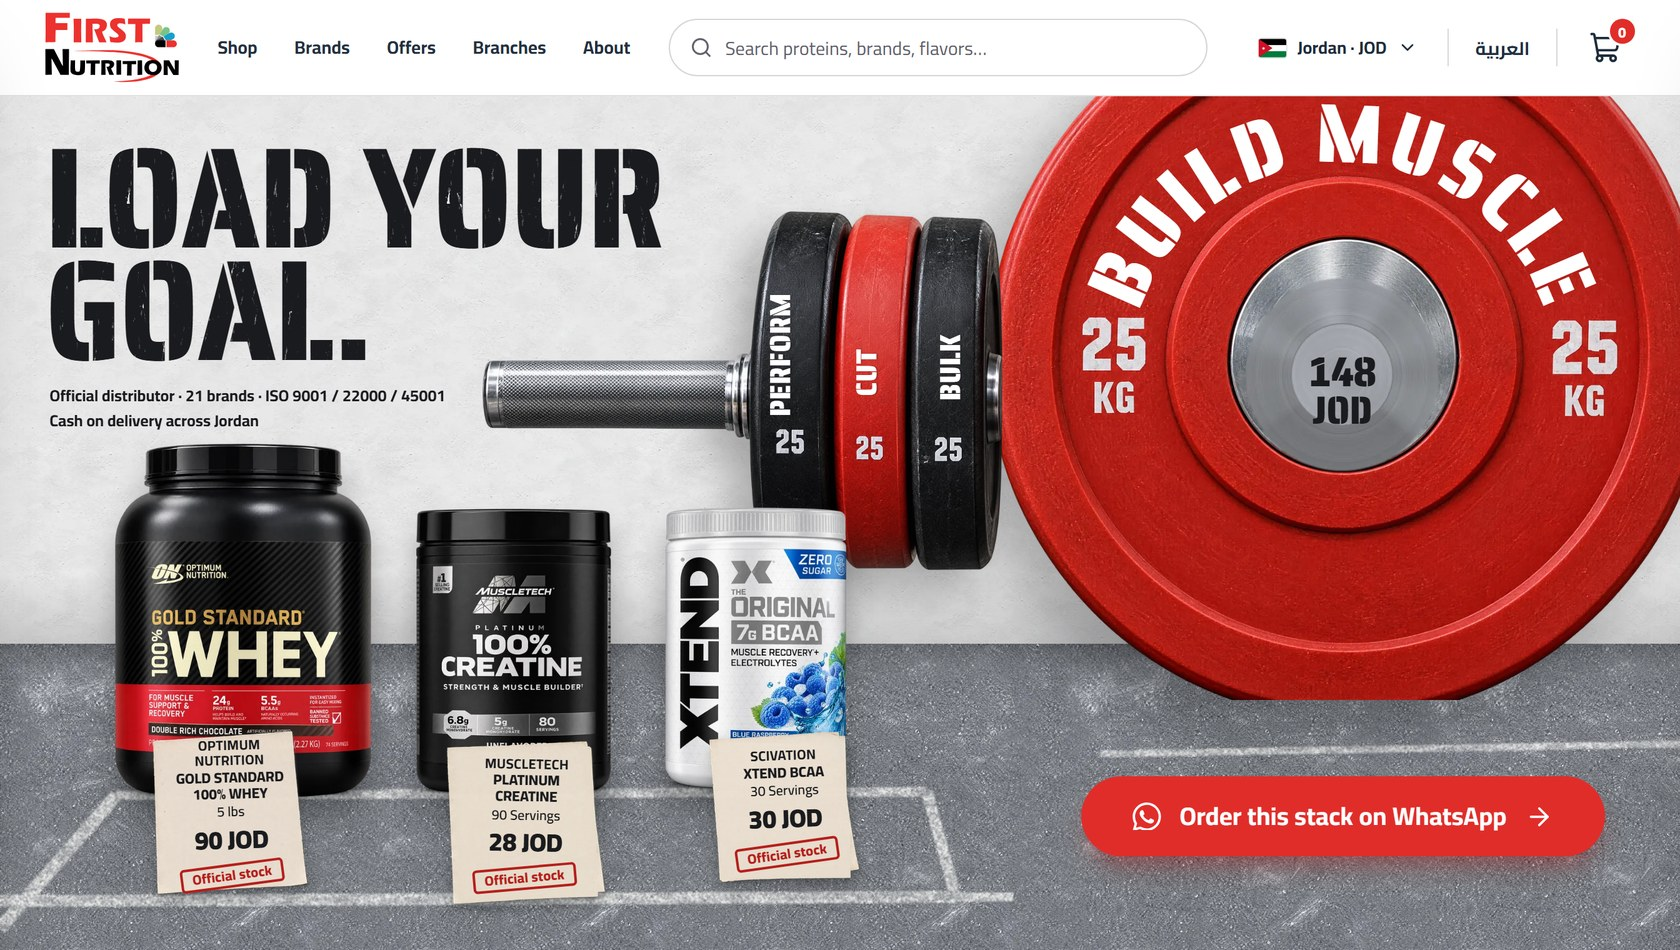
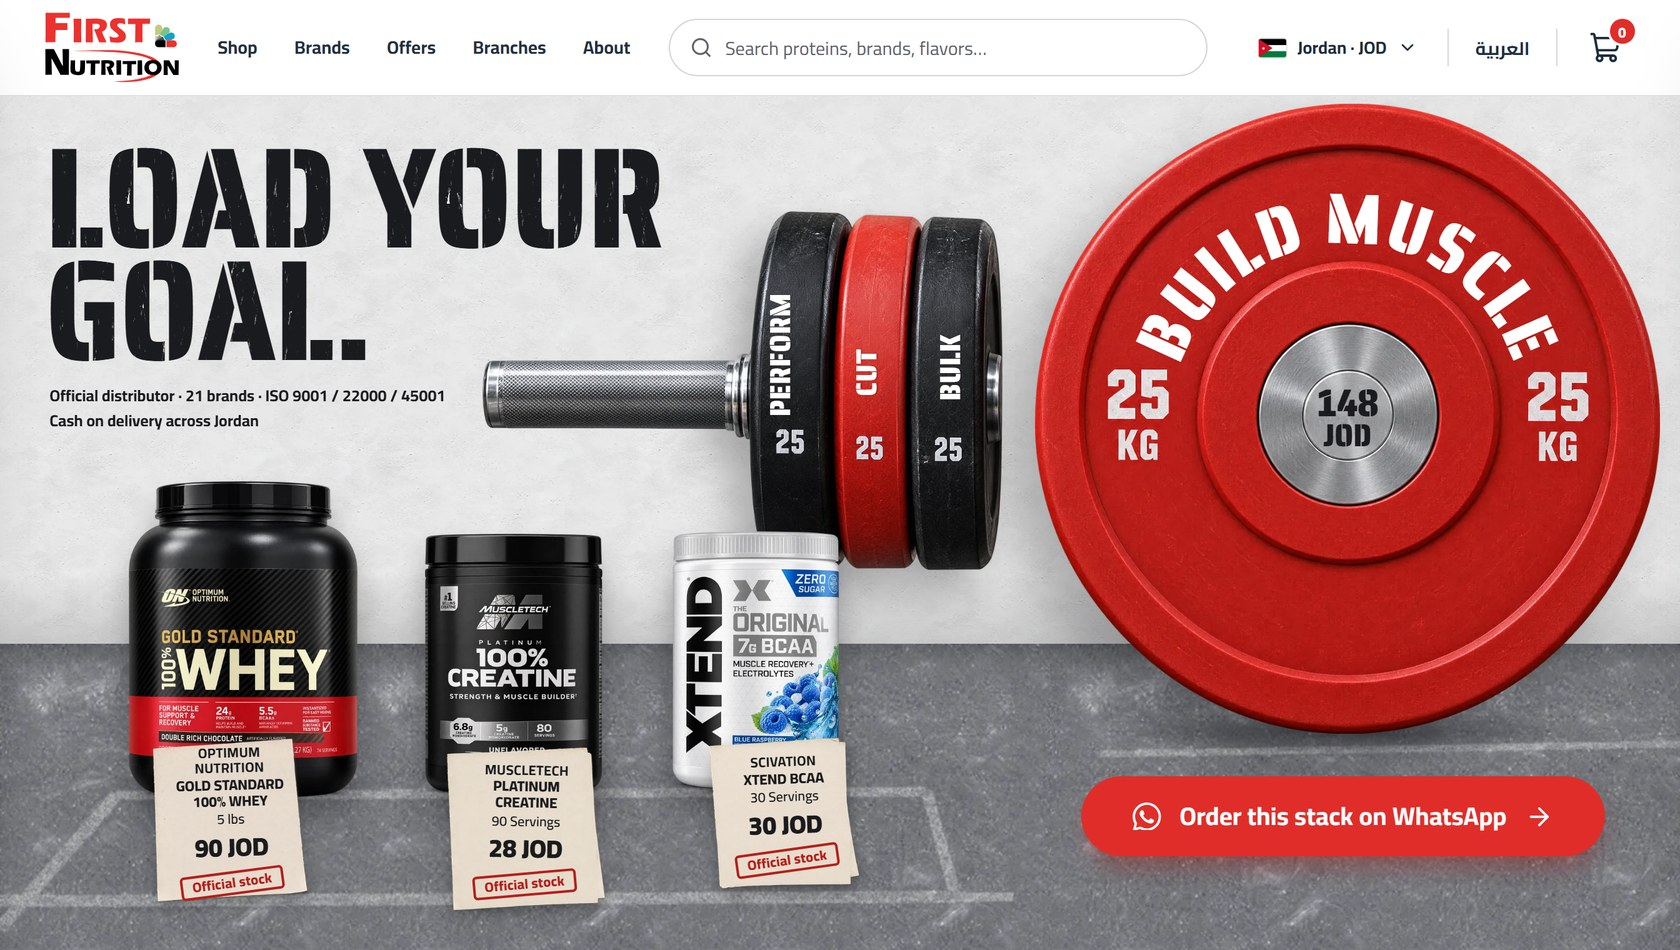
Auto-sync: 2026-11-02 23:58

diff --git a/src/index.css b/src/index.css
@@ -343,7 +343,7 @@ html[lang="ar"] .badge { letter-spacing: 0; }
   content: ''; position: absolute; inset-inline: 0; bottom: 100%; height: 22%;
   background: linear-gradient(to bottom, rgba(40,40,44,0), rgba(40,40,44,.16));
 }
-.lb-chalk { position: absolute; inset: 0; width: 100%; height: 100%; }
+.lb-chalk { position: absolute; inset: 0; width: 100%; height: 100%; opacity: .5; }
 
 .lb-headline {
   position: absolute; left: 2.7%; top: 5.2%; z-index: 2; margin: 0;
@@ -382,29 +382,34 @@ html[lang="ar"] .lb-side span { font-family: var(--font-ar); font-weight: 900; w
 .lb-side:hover, .lb-side:focus-visible { translate: 0 -2.5%; filter: brightness(1.12); }
 .lb-side:focus-visible { outline: 3px solid #fff; outline-offset: -6px; }
 
-.lb-plate { position: absolute; left: 58.8%; top: -5.5%; width: 42.2%; aspect-ratio: 2089 / 1920; z-index: 2; }
+.lb-plate { position: absolute; left: 61.6%; top: .8%; width: 37.2%; aspect-ratio: 1798 / 1815; z-index: 2; }
+/* contact shadow where the plate stands on the platform */
+.lb-plate::after {
+  content: ''; position: absolute; z-index: -1; left: 14%; right: 14%; bottom: -3.2%; height: 7%;
+  background: radial-gradient(closest-side, rgba(20,20,24,.55), rgba(20,20,24,0));
+}
 .lb-plate-spin { position: absolute; inset: 0; }
 .lb-plate-spin img { width: 100%; height: 100%; filter: drop-shadow(-1.6cqw 1.8cqw 1.6cqw rgba(30,30,34,.3)); }
 .lb-rim { position: absolute; inset: 0; width: 100%; height: 100%; overflow: visible; }
 .lb-rim text {
-  font-family: var(--font-display); font-weight: 800; font-stretch: 86%; font-size: 245px; letter-spacing: 10px; fill: #fff;
+  font-family: var(--font-display); font-weight: 800; font-stretch: 84%; letter-spacing: 6px; fill: #fff;
   paint-order: stroke; stroke: rgba(120,10,8,.25); stroke-width: 3px;
 }
 html[lang="ar"] .lb-rim text { font-family: var(--font-ar); font-weight: 900; letter-spacing: 0; }
 .lb-hub {
-  position: absolute; left: 50%; top: 52.5%; translate: -50% -50%; margin: 0;
+  position: absolute; left: 50%; top: 50%; translate: -50% -50%; margin: 0;
   display: flex; flex-direction: column; align-items: center;
   font-family: var(--font-display); font-weight: 800; font-stretch: 85%; color: var(--ink); line-height: .92; text-align: center;
 }
-.lb-hub b { font-weight: 800; font-size: 2.5cqw; font-variant-numeric: tabular-nums; }
-.lb-hub small { font-size: 2.35cqw; }
+.lb-hub b { font-weight: 800; font-size: 2.3cqw; font-variant-numeric: tabular-nums; }
+.lb-hub small { font-size: 1.9cqw; }
 
 /* the stack on the platform */
 .lb-stack { list-style: none; margin: 0; padding: 0; }
 .lb-slot { position: absolute; z-index: 4; }
-.lb-slot-0 { left: 6.44%; width: 16.07%; bottom: 18.24%; height: 41.4%; }
-.lb-slot-1 { left: 24.81%; width: 11.57%; bottom: 18.6%; height: 34.2%; }
-.lb-slot-2 { left: 39.51%; width: 11.01%; bottom: 18.9%; height: 34.2%; }
+.lb-slot-0 { left: 6.44%; width: 16.07%; bottom: 18.24%; height: 37%; }
+.lb-slot-1 { left: 24.81%; width: 11.57%; bottom: 18.6%; height: 30.5%; }
+.lb-slot-2 { left: 39.51%; width: 11.01%; bottom: 18.9%; height: 30.5%; }
 .lb-tub { position: absolute; inset: 0; display: block; }
 .lb-tub img {
   width: 100%; height: 100%; object-fit: contain; object-position: 50% 100%;
@@ -481,7 +486,7 @@ html[lang="ar"] .lb-ticket-text { text-transform: none; }
   .lb-sleeve { left: -6%; top: 40.6%; width: 42%; }
   .lb-sides { left: 21%; top: 32.5%; width: 30%; }
   .lb-side span { font-size: calc(3.8cqw * min(1, 8 / var(--len, 7))); }
-  .lb-plate { left: 45%; top: 29.6%; width: 76%; }
+  .lb-plate { left: 47.5%; top: 30.3%; width: 50.5%; }
   .lb-hub b { font-size: 4.6cqw; }
   .lb-hub small { font-size: 4.1cqw; }
   .lb-slot-0 { left: 3%; width: 34%; bottom: 21.5%; height: 24.5%; }

diff --git a/src/components/LoadedBar.jsx b/src/components/LoadedBar.jsx
@@ -58,6 +58,8 @@ export default function LoadedBar() {
   }
 
   const goalName = t(goal.name).toUpperCase()
+  // Long names set smaller so they stay on the upper rim, clear of the 25 KG marks.
+  const rimSize = goalName.length > 9 ? 205 : 245
 
   return (
     <section className="lb" aria-labelledby="lb-title">
@@ -89,9 +91,9 @@ export default function LoadedBar() {
         <div className="lb-plate">
           <div className="lb-plate-spin" key={goalId}>
             <img src={giantPlate} alt="" draggable="false" fetchPriority="high" />
-            <svg className="lb-rim" viewBox="0 0 2089 1920" aria-hidden="true">
-              <defs><path id="lb-arc" d="M 420 960 A 625 625 0 0 1 1670 960" /></defs>
-              <text><textPath href="#lb-arc" startOffset="50%" textAnchor="middle">{goalName}</textPath></text>
+            <svg className="lb-rim" viewBox="0 0 1798 1815" aria-hidden="true">
+              <defs><path id="lb-arc" d="M 394 907 A 505 505 0 0 1 1404 907" /></defs>
+              <text style={{ fontSize: rimSize }}><textPath href="#lb-arc" startOffset="50%" textAnchor="middle">{goalName}</textPath></text>
             </svg>
           </div>
           <p className="lb-hub" aria-live="polite">
